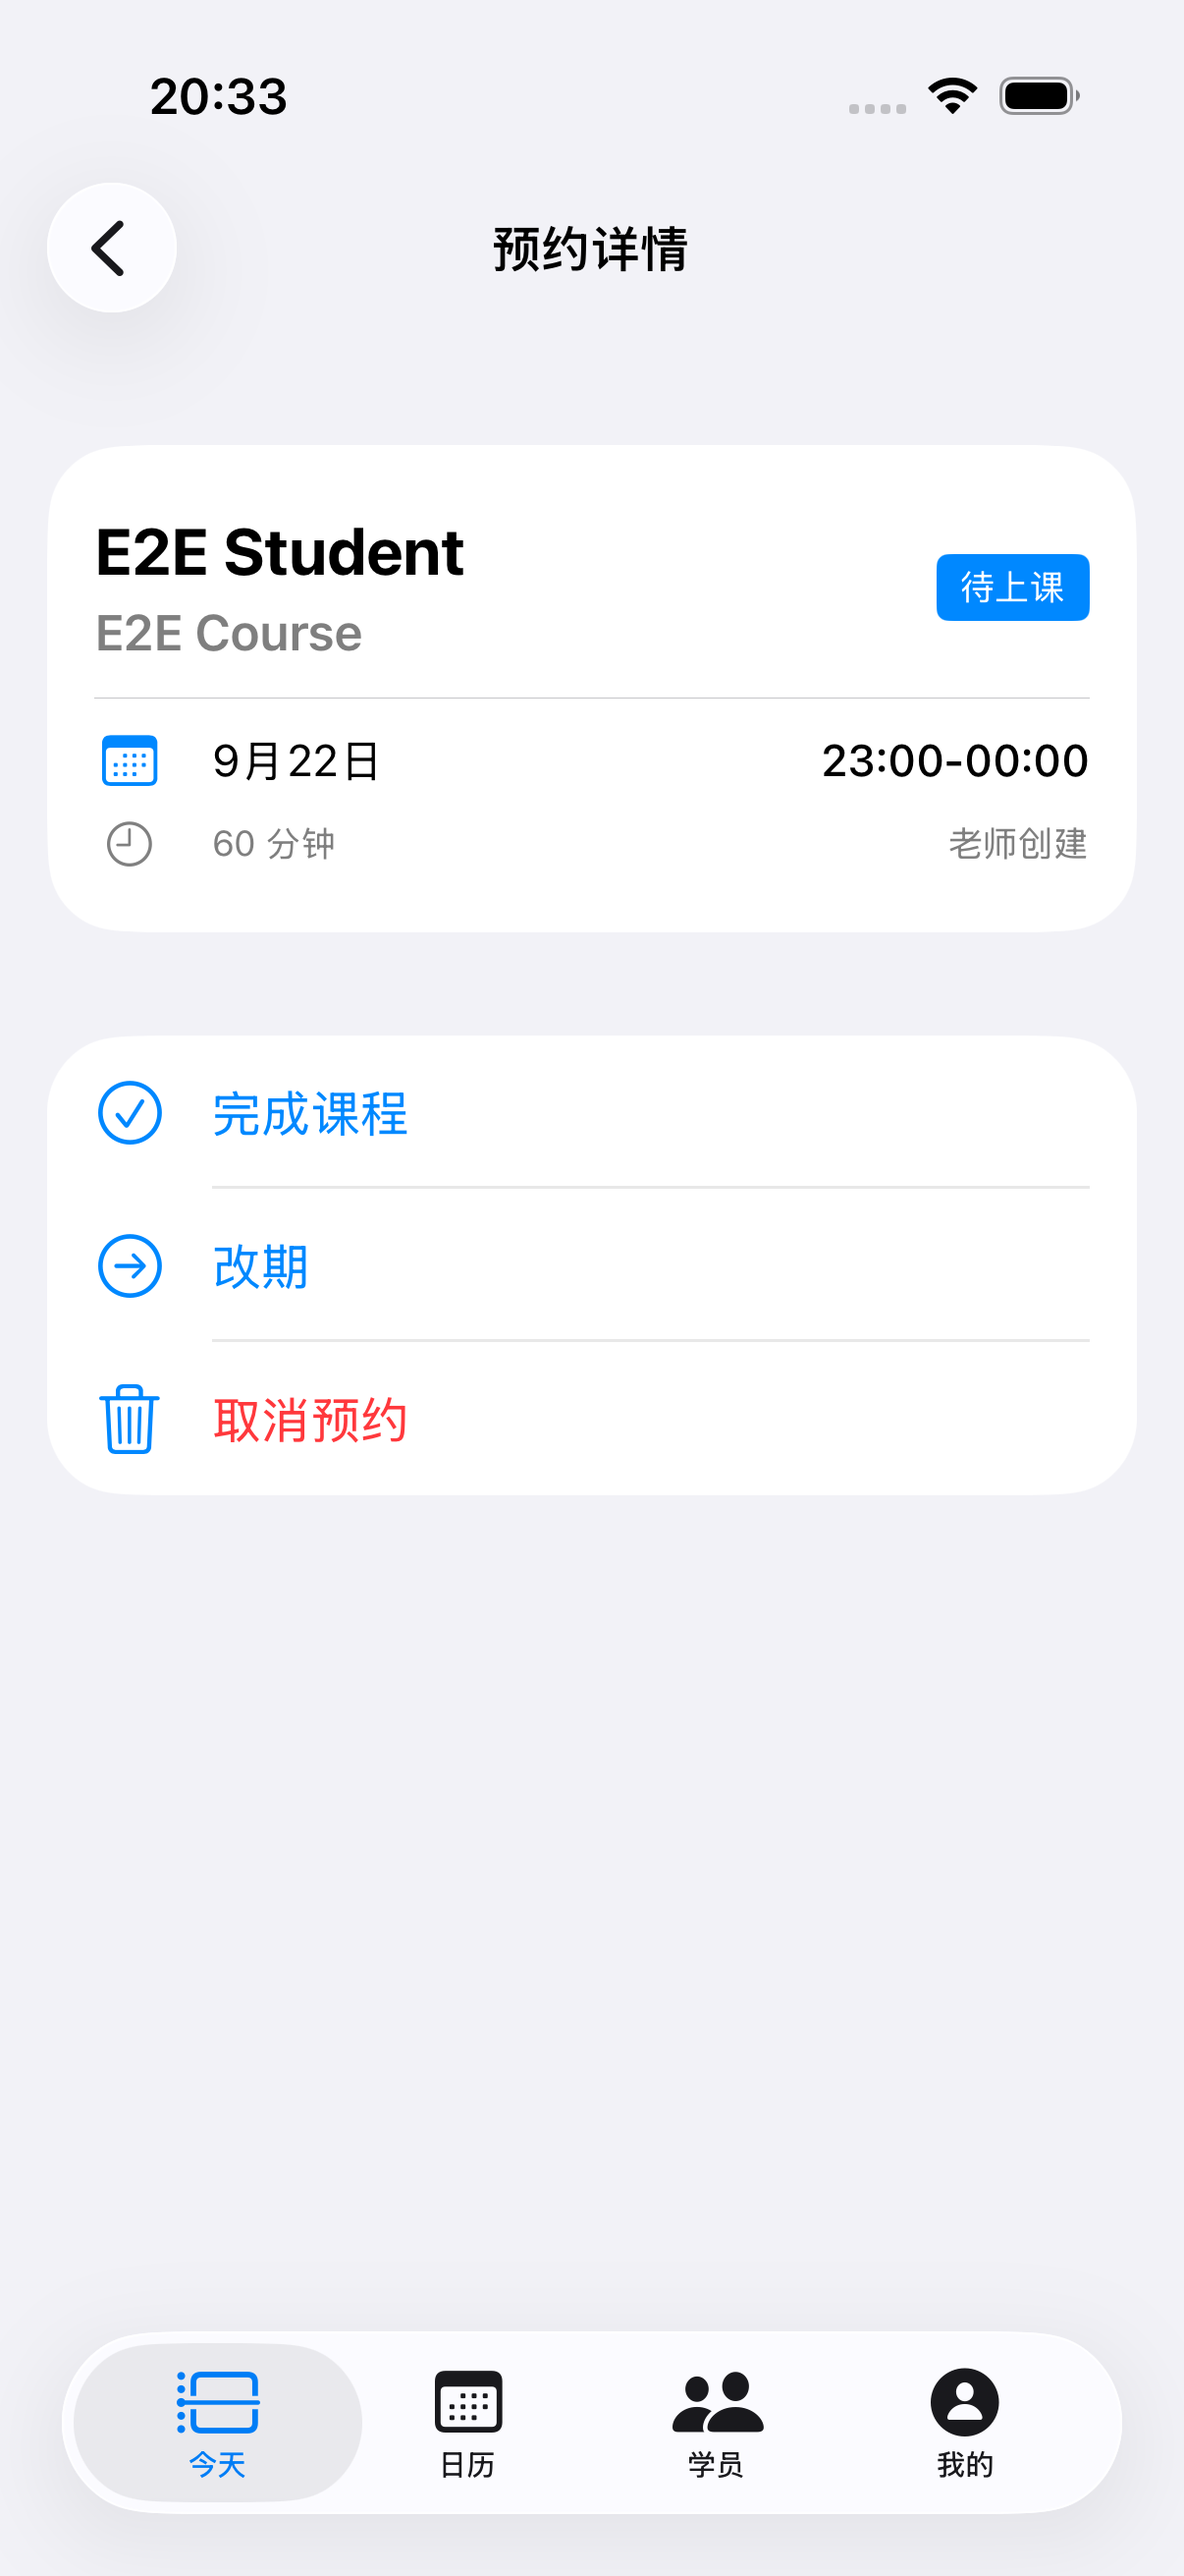
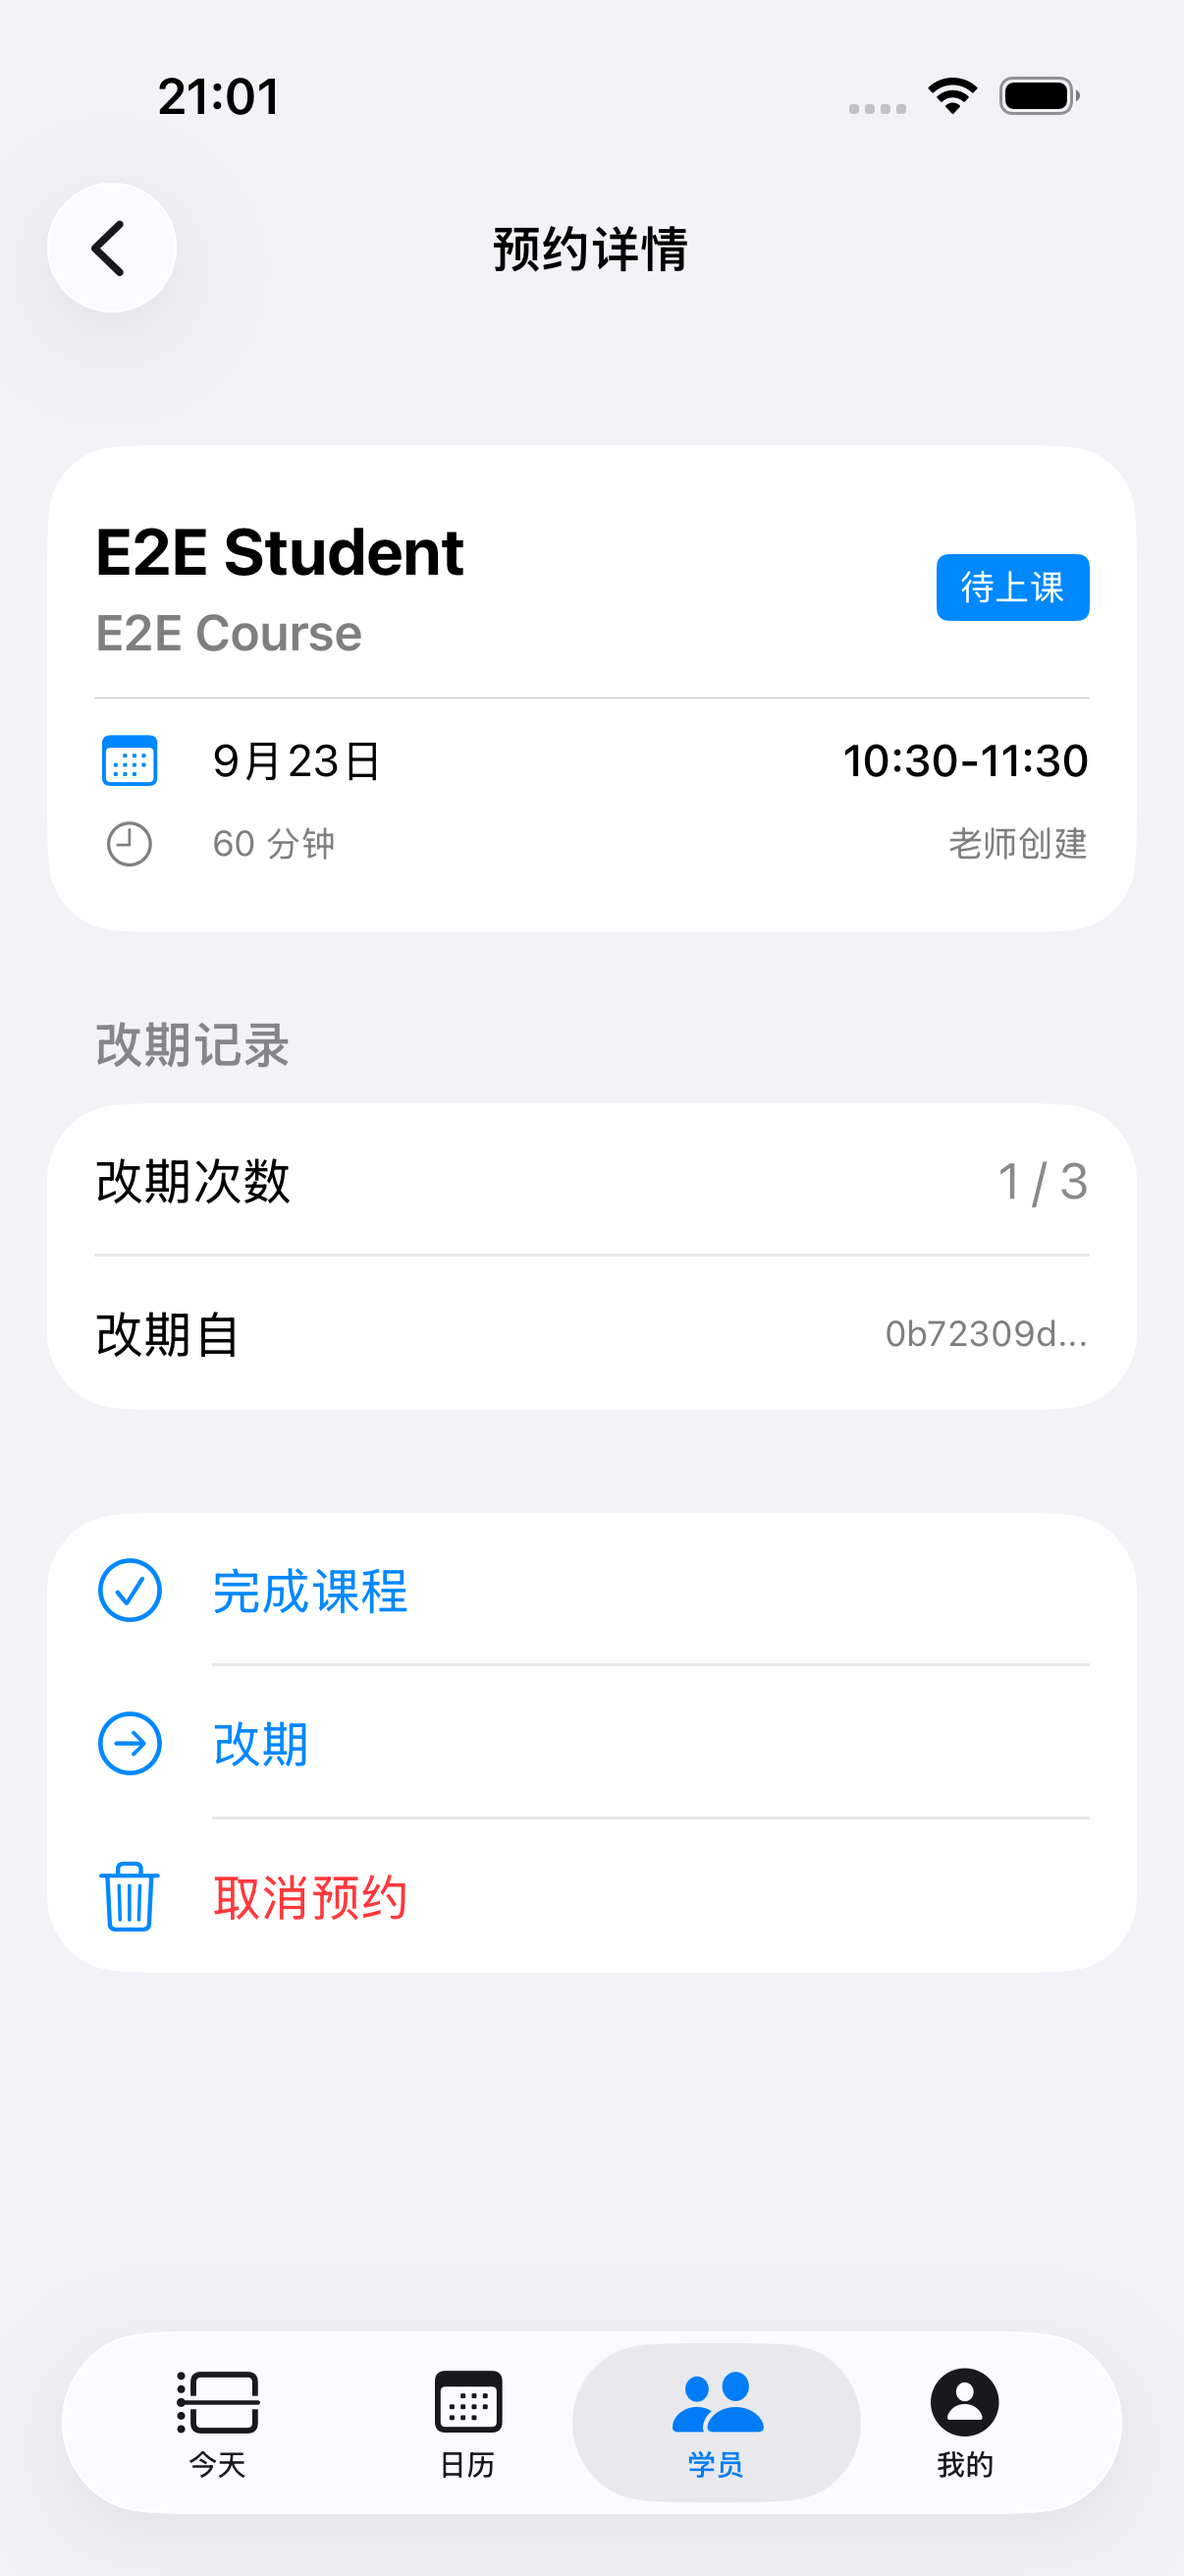
fix(ios): strict teacher-day + student list/detail decode for E2E (#21)
After Maya PR #20, TeacherDayView is strict full shared shape again.
Map live GET /v1/students {items} into StudentListView; hydrate student
detail upcoming from teacher-upcoming; tolerate invite without expiresLabel.
Pass initial booking into detail so 改期 is reachable. Clean reschedule
screenshots (10:00→10:30) on Stabilization E2E walkthrough.

diff --git a/ios/Packages/RabbitKit/Sources/RabbitKit/Repository/StudentRepository.swift b/ios/Packages/RabbitKit/Sources/RabbitKit/Repository/StudentRepository.swift
@@ -28,12 +28,118 @@ public actor StudentRepository: StudentRepositoryProtocol {
         if let status = status {
             queryItems.append(URLQueryItem(name: "status", value: status.rawValue))
         }
-        
-        return try await client.get(.students, queryItems: queryItems)
+
+        // Contract (impl-guide): `{ students, stats }`.
+        // Live API currently returns `{ items: [...], hasMore }` — map until Maya aligns.
+        struct StudentsWire: Decodable {
+            let students: [StudentSummary]?
+            let stats: StudentStats?
+            let items: [Item]?
+            let hasMore: Bool?
+
+            struct Item: Decodable {
+                let student: StudentCore
+                let courses: [CourseCore]?
+                let upcoming: [Booking]?
+
+                struct StudentCore: Decodable {
+                    let studentId: String
+                    let name: String
+                    let contact: String?
+                    let status: StudentStatus
+                    let bound: Bool
+                    let boundAt: String?
+                }
+
+                struct CourseCore: Decodable {
+                    let courseId: String
+                    let courseName: String
+                    let remaining: Int
+                    let reserved: Int
+                    let available: Int
+                }
+            }
+        }
+
+        let wire: StudentsWire = try await client.get(.students, queryItems: queryItems)
+        if let students = wire.students, let stats = wire.stats {
+            return StudentListView(students: students, stats: stats)
+        }
+
+        let details = wire.items ?? []
+        let summaries: [StudentSummary] = details.map { item in
+            let courseSummaries = (item.courses ?? []).map {
+                CourseSummary(
+                    courseId: $0.courseId,
+                    courseName: $0.courseName,
+                    remaining: $0.remaining,
+                    reserved: $0.reserved,
+                    available: $0.available
+                )
+            }
+            return StudentSummary(
+                studentId: item.student.studentId,
+                name: item.student.name,
+                contact: item.student.contact,
+                status: item.student.status,
+                bound: item.student.bound,
+                boundAt: item.student.boundAt,
+                courseSummaries: courseSummaries,
+                remainingTotal: courseSummaries.reduce(0) { $0 + $1.remaining },
+                nextBooking: item.upcoming?.first
+            )
+        }
+        let stats = StudentStats(
+            total: summaries.count,
+            unbound: summaries.filter { !$0.bound }.count,
+            active: summaries.filter { $0.status == .Active }.count
+        )
+        return StudentListView(students: summaries, stats: stats)
     }
-    
+
     public func studentDetail(id: String) async throws -> StudentDetailView {
-        return try await client.get(.student(id))
+        // Contract: full StudentDetailView from GET /v1/students/:id.
+        // Live API returns `{ student }` only; list items omit upcoming.
+        // Fill upcoming from teacher-upcoming until Maya aligns.
+        struct ListWire: Decodable {
+            let items: [StudentDetailView]?
+        }
+        struct UpcomingWire: Decodable {
+            let items: [Booking]
+        }
+
+        let list: ListWire = try await client.get(.students)
+        let base: StudentDetailView
+        if let match = list.items?.first(where: { $0.student.studentId == id }) {
+            base = match
+        } else {
+            struct Partial: Decodable { let student: Student }
+            let partial: Partial = try await client.get(.student(id))
+            base = StudentDetailView(
+                student: partial.student,
+                courses: [],
+                packages: [],
+                transactions: [],
+                upcoming: [],
+                history: [],
+                invite: nil
+            )
+        }
+
+        let upcoming: UpcomingWire = try await client.get(
+            .teacherUpcoming,
+            queryItems: [URLQueryItem(name: "limit", value: "50")]
+        )
+        let mine = upcoming.items.filter { $0.studentId == id && $0.status == .Upcoming }
+        return StudentDetailView(
+            student: base.student,
+            courses: base.courses,
+            packages: base.packages,
+            transactions: base.transactions,
+            upcoming: mine.isEmpty ? base.upcoming : mine,
+            history: base.history,
+            invite: base.invite
+        )
     }
     
     public func createStudent(

diff --git a/ios/Packages/RabbitKit/Sources/RabbitKit/DTO/StudentDTO.swift b/ios/Packages/RabbitKit/Sources/RabbitKit/DTO/StudentDTO.swift
@@ -32,6 +32,24 @@ public struct StudentDetailView: Codable {
     public let upcoming: [Booking]
     public let history: [Booking]
     public let invite: Invite?
+
+    public init(
+        student: Student,
+        courses: [StudentCourse],
+        packages: [Package],
+        transactions: [Transaction],
+        upcoming: [Booking],
+        history: [Booking],
+        invite: Invite?
+    ) {
+        self.student = student
+        self.courses = courses
+        self.packages = packages
+        self.transactions = transactions
+        self.upcoming = upcoming
+        self.history = history
+        self.invite = invite
+    }
 }
 
 public struct StudentCourse: Codable, Identifiable {
@@ -62,6 +80,11 @@ public struct StudentCourse: Codable, Identifiable {
 public struct StudentListView: Codable {
     public let students: [StudentSummary]
     public let stats: StudentStats
+
+    public init(students: [StudentSummary], stats: StudentStats) {
+        self.students = students
+        self.stats = stats
+    }
 }
 
 public struct StudentSummary: Codable, Identifiable {
@@ -76,6 +99,28 @@ public struct StudentSummary: Codable, Identifiable {
     public let nextBooking: Booking?
     
     public var id: String { studentId }
+
+    public init(
+        studentId: String,
+        name: String,
+        contact: String?,
+        status: StudentStatus,
+        bound: Bool,
+        boundAt: String?,
+        courseSummaries: [CourseSummary],
+        remainingTotal: Int,
+        nextBooking: Booking?
+    ) {
+        self.studentId = studentId
+        self.name = name
+        self.contact = contact
+        self.status = status
+        self.bound = bound
+        self.boundAt = boundAt
+        self.courseSummaries = courseSummaries
+        self.remainingTotal = remainingTotal
+        self.nextBooking = nextBooking
+    }
 }
 
 public struct CourseSummary: Codable {
@@ -84,12 +129,26 @@ public struct CourseSummary: Codable {
     public let remaining: Int
     public let reserved: Int
     public let available: Int
+
+    public init(courseId: String, courseName: String, remaining: Int, reserved: Int, available: Int) {
+        self.courseId = courseId
+        self.courseName = courseName
+        self.remaining = remaining
+        self.reserved = reserved
+        self.available = available
+    }
 }
 
 public struct StudentStats: Codable {
     public let total: Int
     public let unbound: Int
     public let active: Int
+
+    public init(total: Int, unbound: Int, active: Int) {
+        self.total = total
+        self.unbound = unbound
+        self.active = active
+    }
 }
 
 // MARK: - Student Home (Web, for reference)

diff --git a/ios/Packages/RabbitKit/Sources/RabbitKit/DTO/BookingDTO.swift b/ios/Packages/RabbitKit/Sources/RabbitKit/DTO/BookingDTO.swift
@@ -86,9 +86,7 @@ public struct BookingActions: Codable {
 
 // MARK: - Teacher Day View
 
-/// Teacher's daily view (T01 Today page)
-/// Decodes both the full shared TeacherDayView shape and the slim
-/// `{ date, bookings }` envelope currently returned by GET /v1/me/teacher-day.
+/// Teacher's daily view (T01 Today page) — full shared shape (PR #20).
 public struct TeacherDayView: Codable {
     public let date: String
     public let isToday: Bool
@@ -100,22 +98,26 @@ public struct TeacherDayView: Codable {
     public let pending: [Booking]
     public let hints: [String]
 
-    enum CodingKeys: String, CodingKey {
-        case date, isToday, dateLabel, todayCount, completedCount, next, bookings, pending, hints
-    }
-
-    public init(from decoder: Decoder) throws {
-        let c = try decoder.container(keyedBy: CodingKeys.self)
-        date = try c.decode(String.self, forKey: .date)
-        bookings = try c.decodeIfPresent([Booking].self, forKey: .bookings) ?? []
-        isToday = try c.decodeIfPresent(Bool.self, forKey: .isToday) ?? true
-        dateLabel = try c.decodeIfPresent(String.self, forKey: .dateLabel) ?? date
-        todayCount = try c.decodeIfPresent(Int.self, forKey: .todayCount) ?? bookings.count
-        completedCount = try c.decodeIfPresent(Int.self, forKey: .completedCount)
-            ?? bookings.filter { $0.status == .Completed }.count
-        next = try c.decodeIfPresent(Booking.self, forKey: .next)
-        pending = try c.decodeIfPresent([Booking].self, forKey: .pending) ?? []
-        hints = try c.decodeIfPresent([String].self, forKey: .hints) ?? []
+    public init(
+        date: String,
+        isToday: Bool,
+        dateLabel: String,
+        todayCount: Int,
+        completedCount: Int,
+        next: Booking?,
+        bookings: [Booking],
+        pending: [Booking],
+        hints: [String]
+    ) {
+        self.date = date
+        self.isToday = isToday
+        self.dateLabel = dateLabel
+        self.todayCount = todayCount
+        self.completedCount = completedCount
+        self.next = next
+        self.bookings = bookings
+        self.pending = pending
+        self.hints = hints
     }
 }
 

diff --git a/ios/Packages/RabbitKit/Sources/RabbitKit/DTO/InviteDTO.swift b/ios/Packages/RabbitKit/Sources/RabbitKit/DTO/InviteDTO.swift
@@ -13,6 +13,22 @@ public struct Invite: Codable, Identifiable {
     public let status: InviteStatus?
     
     public var id: String { inviteId }
+
+    enum CodingKeys: String, CodingKey {
+        case inviteId, token, url, expiresAt, expiresLabel, studentName, status
+    }
+
+    public init(from decoder: Decoder) throws {
+        let c = try decoder.container(keyedBy: CodingKeys.self)
+        inviteId = try c.decode(String.self, forKey: .inviteId)
+        token = try c.decode(String.self, forKey: .token)
+        url = try c.decodeIfPresent(String.self, forKey: .url) ?? ""
+        expiresAt = try c.decode(String.self, forKey: .expiresAt)
+        // Live list/detail invites omit expiresLabel; contract includes it.
+        expiresLabel = try c.decodeIfPresent(String.self, forKey: .expiresLabel) ?? ""
+        studentName = try c.decodeIfPresent(String.self, forKey: .studentName) ?? ""
+        status = try c.decodeIfPresent(InviteStatus.self, forKey: .status)
+    }
 }
 
 public enum InviteStatus: String, Codable {

diff --git a/ios/Rabbit/Features/Students/StudentDetailView.swift b/ios/Rabbit/Features/Students/StudentDetailView.swift
@@ -154,13 +154,13 @@ struct StudentDetailView: View {
                                 BookingDetailView(
                                     viewModel: BookingDetailViewModel(
                                         bookingId: booking.bookingId,
-                                        repo: environment.bookingRepository
+                                        repo: environment.bookingRepository,
+                                        initialBooking: booking
                                     )
                                 )
                             } label: {
                                 BookingRow(booking: booking)
                             }
-                            .buttonStyle(.plain)
                         }
                     }
                 }

diff --git a/ios/Packages/RabbitKit/Sources/RabbitKit/ViewModel/BookingDetailViewModel.swift b/ios/Packages/RabbitKit/Sources/RabbitKit/ViewModel/BookingDetailViewModel.swift
@@ -14,9 +14,10 @@ public final class BookingDetailViewModel {
     private let bookingId: String
     private let repo: any BookingRepositoryProtocol
     
-    public init(bookingId: String, repo: any BookingRepositoryProtocol) {
+    public init(bookingId: String, repo: any BookingRepositoryProtocol, initialBooking: Booking? = nil) {
         self.bookingId = bookingId
         self.repo = repo
+        self.booking = initialBooking
     }
     
     public func refresh() async {

diff --git a/ios/Packages/RabbitKit/Sources/RabbitKit/APIClient/HTTPClient.swift b/ios/Packages/RabbitKit/Sources/RabbitKit/APIClient/HTTPClient.swift
@@ -179,6 +179,7 @@ extension Endpoint {
     // Today & Calendar
     public static let teacherDay = Endpoint("v1/me/teacher-day")
     public static let teacherCalendar = Endpoint("v1/me/teacher-calendar")
+    public static let teacherUpcoming = Endpoint("v1/me/teacher-upcoming")
     
     // Students
     public static let students = Endpoint("v1/students")
